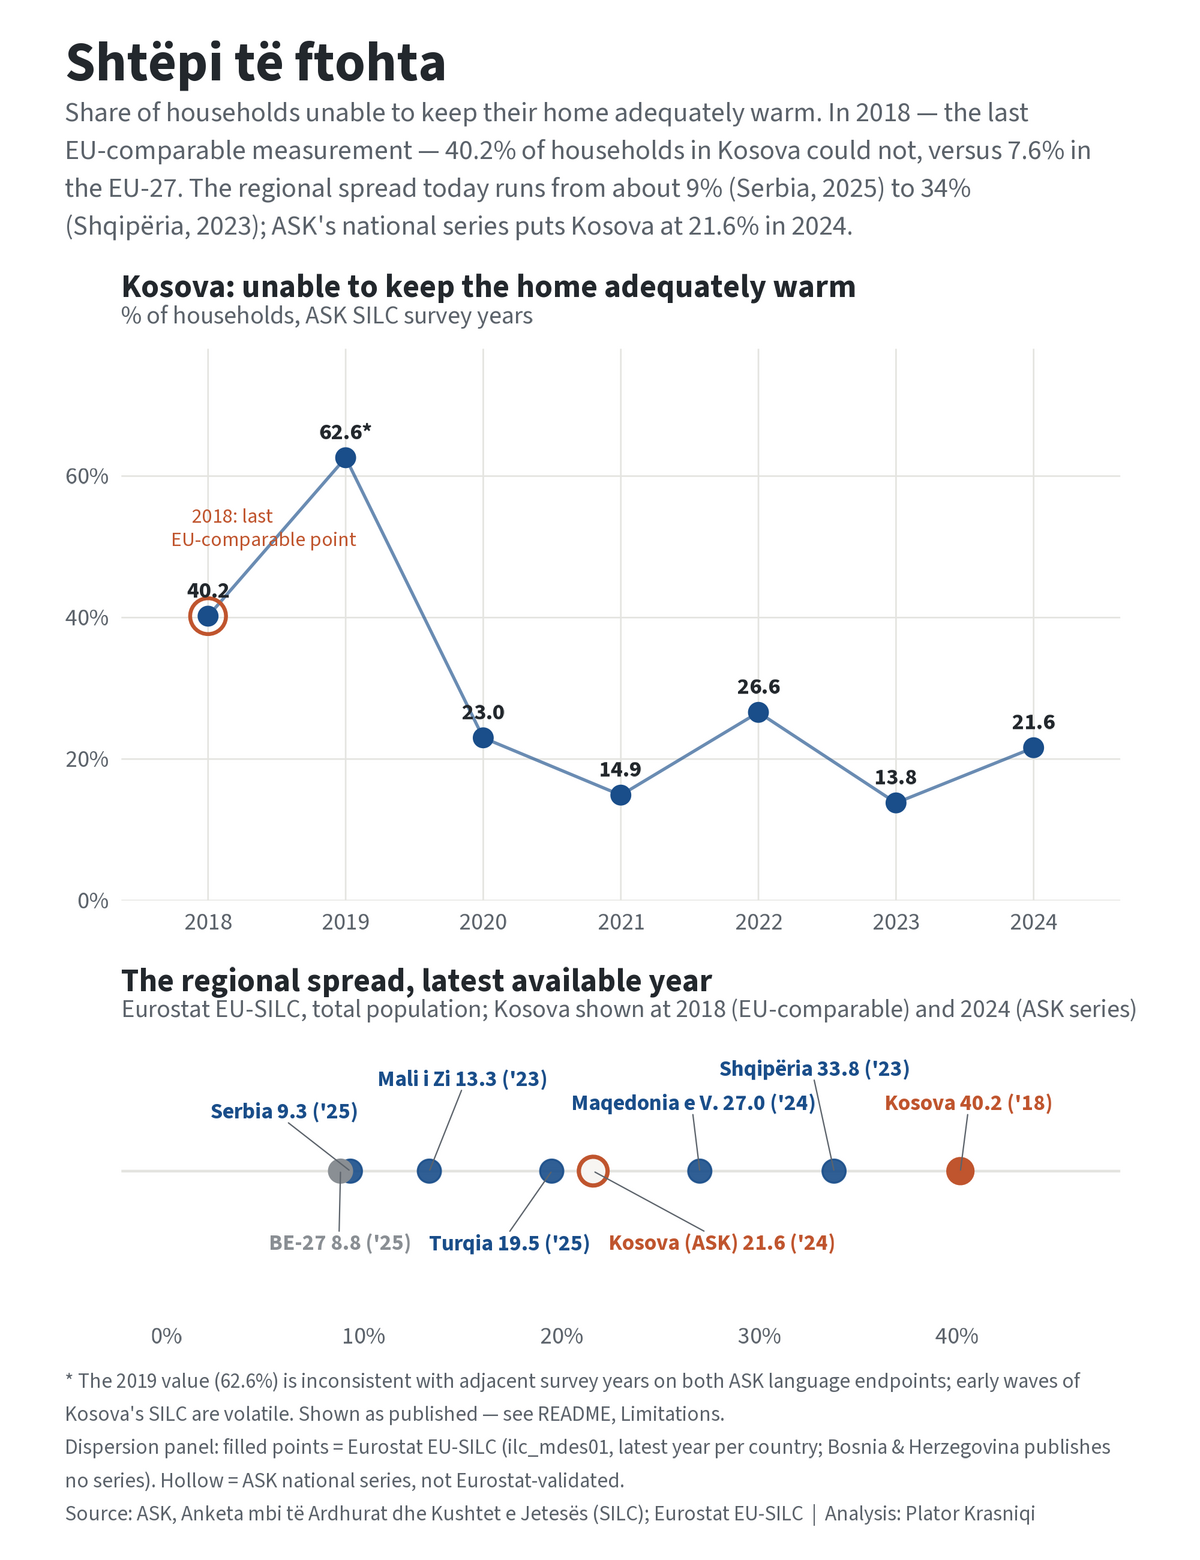
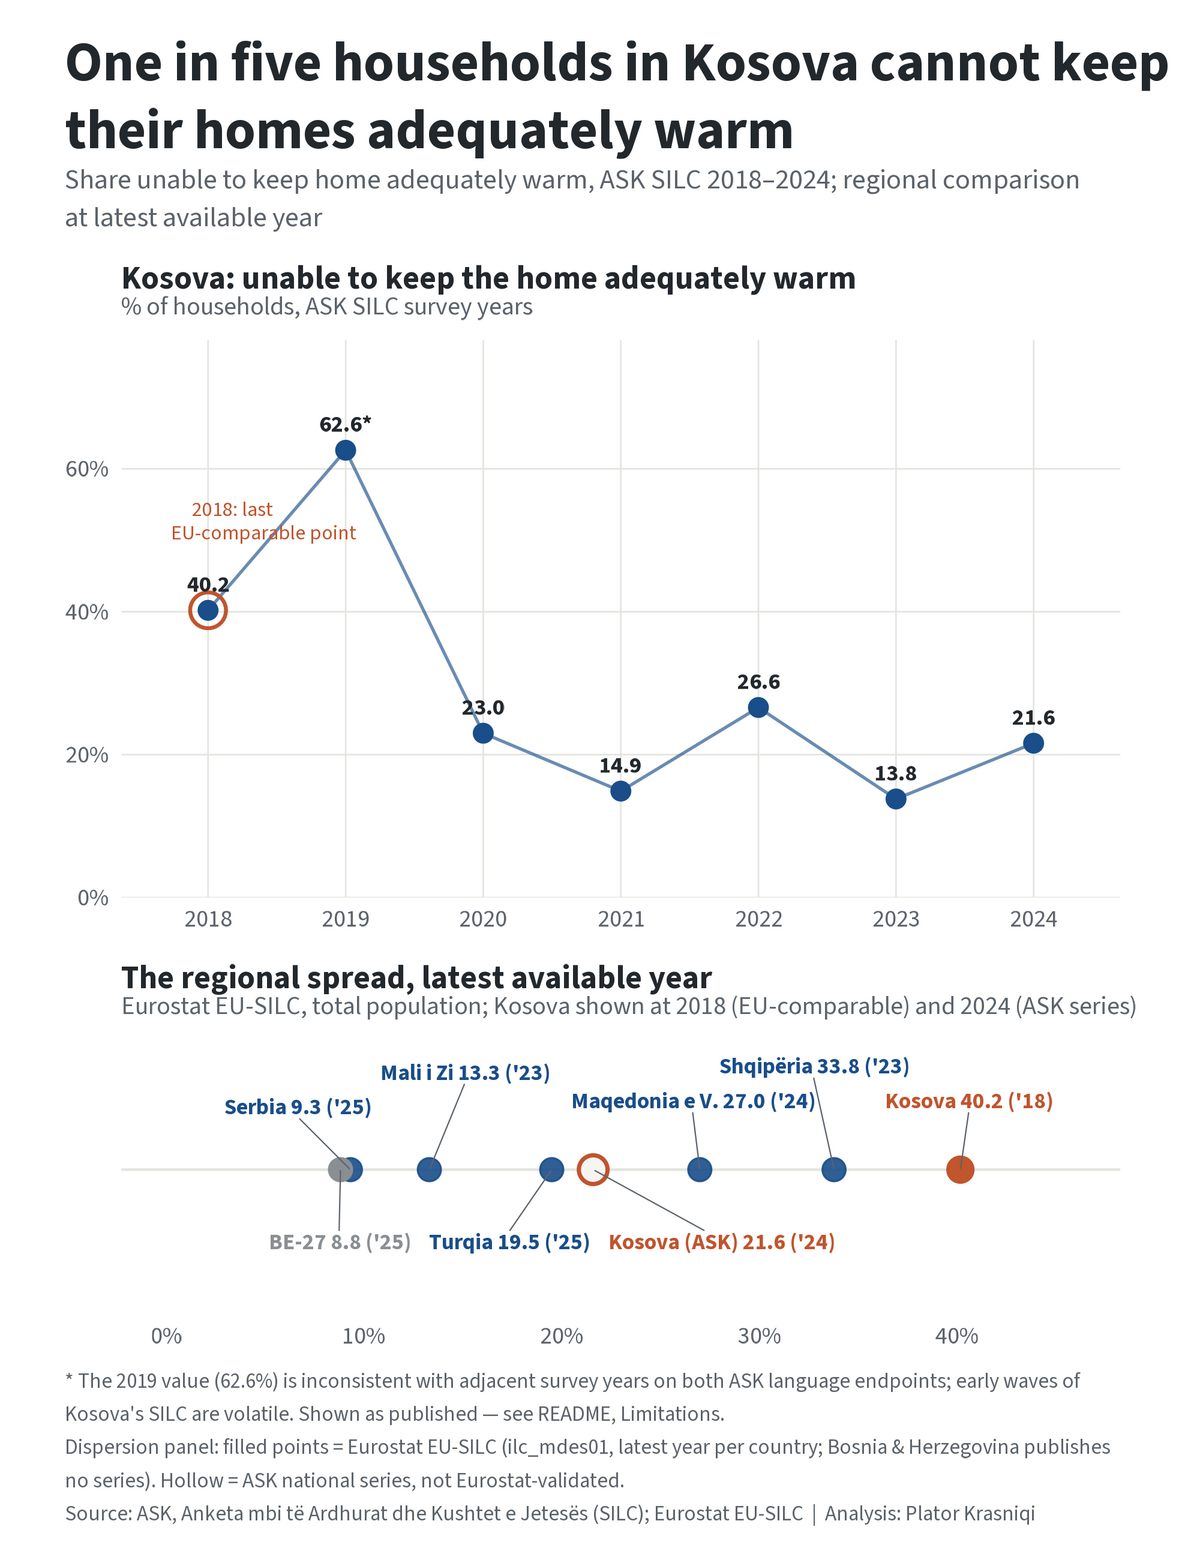
energy-poverty: retitle to 2024 headline; add post write-up
Figure and README now lead with the 2024 value (21.6%, one in five) with 2018
(40.2%) framed as the EU-validated anchor. Title claim is data-bound (guard
trips if a re-pull moves 2024 off ~20%). post.md carries the publication text.

diff --git a/energy-poverty/post.md b/energy-poverty/post.md
@@ -1,0 +1,39 @@
+# One in five households in Kosova cannot keep their homes adequately warm
+
+That is Kosova's own official figure for 2024 — 21.6% of households, from ASK's
+Survey on Income and Living Conditions. It is the EU's standard energy-poverty
+indicator, and Kosova's series tells a more complicated story than a single
+number suggests.
+
+In 2018 — the one year Kosova's data was transmitted to and validated by
+Eurostat — the figure was 40.2%, among the highest in Europe (the EU-27 average
+was 7.6%). Among households below the poverty line, it was 53.1%. By ASK's
+published series, the rate has since roughly halved. Taken at face value, that
+is a substantial improvement.
+
+There are reasons to hold that trend loosely. The 2019 value (62.6%) is a clear
+outlier with no published explanation, the indicator is self-reported, and only
+the 2018 point has ever been externally validated. An apparent improvement in a
+self-reported affordability measure can reflect real welfare gains — or changes
+in survey practice. With one validated data point, the honest answer is that we
+cannot fully distinguish the two.
+
+Regionally, the dispersion is wide: from 8.8% in the EU-27 and 9.3% in Serbia
+to 33.8% in Albania. Kosova's 2024 figure sits mid-range — better than Albania
+and North Macedonia, worse than Montenegro, Serbia and the EU average — though
+unlike its neighbours' figures, it is not Eurostat-validated. Bosnia is absent
+from the comparison entirely: it does not report the indicator at all.
+
+The price backdrop has not been easing: electricity, gas and other fuels were
+up 14.3% year-on-year as of March 2026.
+
+What the public data cannot say is who cannot keep warm. The only
+distributional cut that has ever existed is the 2018 poverty split. ASK's
+Household Budget Survey publishes no expenditure breakdowns by income, ends in
+2022, and does not separate energy from housing costs. And the indicator itself
+conflates three things — income, prices, and the thermal quality of housing —
+that can only be separated with household-level data. Until that exists, energy
+poverty in Kosova can be counted, roughly, but not explained.
+
+Data, code and full limitations:
+https://github.com/platorpk/kosovo-economy/tree/main/energy-poverty

diff --git a/energy-poverty/README.md b/energy-poverty/README.md
@@ -4,13 +4,14 @@ Reproducible R pipeline on the EU's headline energy-poverty indicator —
 **households unable to keep their home adequately warm** — for Kosova and the
 Western Balkans, from public data only.
 
-**The finding:** at the last EU-comparable measurement (2018), **40.2%** of
-households in Kosova could not keep their home adequately warm, against **7.6%**
-in the EU-27 that year (and **53.1%** among Kosovars below the at-risk-of-poverty
-threshold). The regional spread at the latest available years runs from about
-**9%** (Serbia, 2025) to **34%** (Shqipëria, 2023); ASK's national series puts
-Kosova at **21.6%** in 2024, on a volatile path — see Limitations before reading
-it as a trend.
+**The finding:** **one in five households in Kosova — 21.6% in 2024, by ASK's
+own SILC series — cannot keep their home adequately warm.** The EU-validated
+anchor point is 2018, the one year Kosova's data was transmitted to Eurostat:
+**40.2%**, against **7.6%** in the EU-27 that year, and **53.1%** among Kosovars
+below the at-risk-of-poverty threshold. The regional spread at the latest
+available years runs from about **9%** (Serbia, 2025) to **34%** (Shqipëria,
+2023). The ASK path from 40.2 to 21.6 is volatile — see Limitations before
+reading it as a trend.
 
 ## Data sources (all open)
 